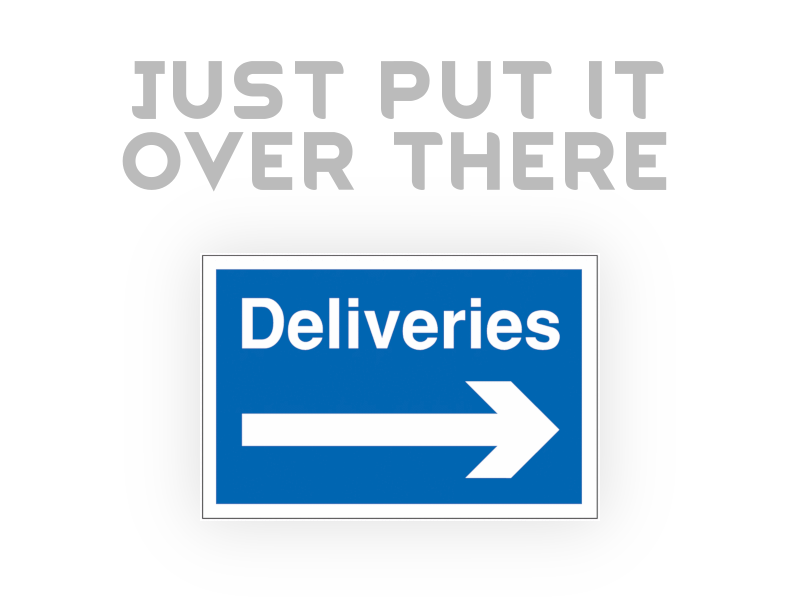
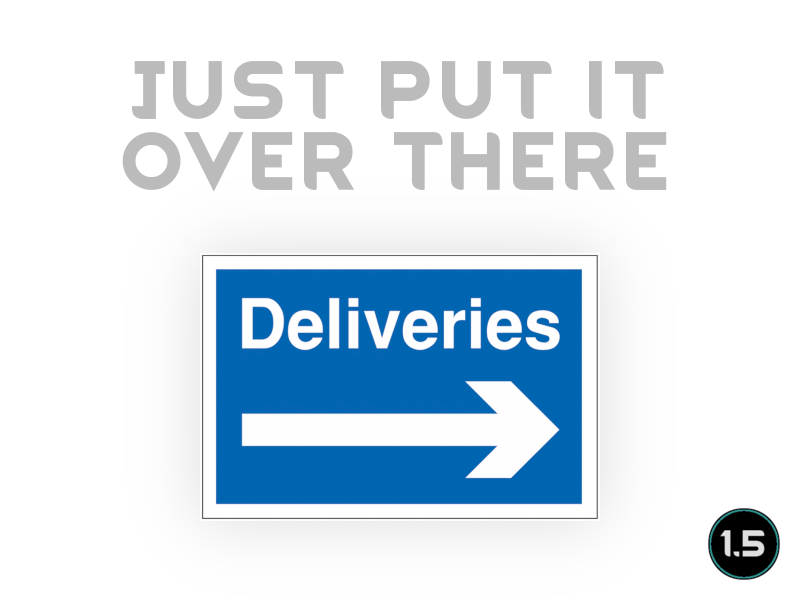
Mod updated for 1.5 and passed autotests

Changed region(s): [[0.875, 0.84, 1.0, 0.99]]

diff --git a/README.md b/README.md
@@ -24,10 +24,13 @@ https://ko-fi.com/G2G55DDYD]![Image](https://i.imgur.com/VWG0yff.png)
 
 -  See if the the error persists if you just have this mod and its requirements active.
 -  If not, try adding your other mods until it happens again.
--  Post your error-log using https://steamcommunity.com/workshop/filedetails/?id=818773962]HugsLib and command Ctrl+F12
+-  Post your error-log using https://steamcommunity.com/workshop/filedetails/?id=818773962]HugsLib or the standalone https://steamcommunity.com/sharedfiles/filedetails/?id=2873415404]Uploader and command Ctrl+F12
 -  For best support, please use the Discord-channel for error-reporting.
 -  Do not report errors by making a discussion-thread, I get no notification of that.
 -  If you have the solution for a problem, please post it to the GitHub repository.
+-  Use https://github.com/RimSort/RimSort/releases/latest]RimSort to sort your mods
 
 
-https://steamcommunity.com/sharedfiles/filedetails/changelog/2856471776]Last updated 2023-05-08
+
+https://steamcommunity.com/sharedfiles/filedetails/changelog/2856471776]![Image](https://img.shields.io/github/v/release/emipa606/JustPutItOverThere?label=latest%20version&style=plastic&labelColor=0070cd&color=white)
+
